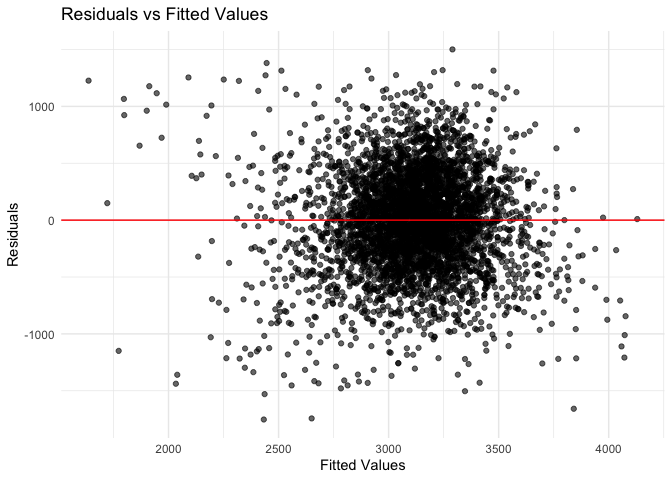
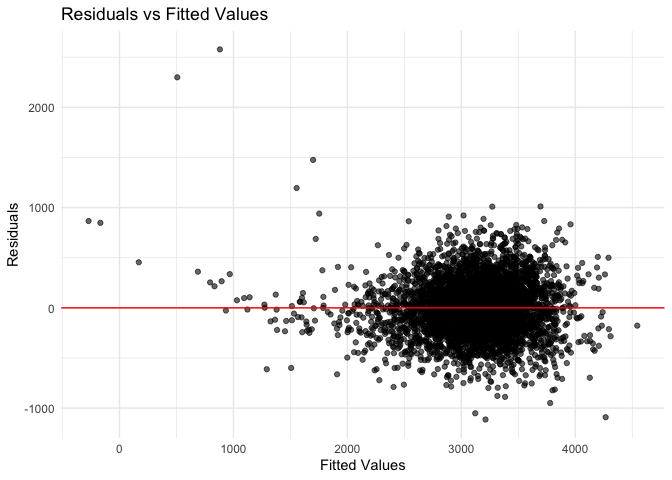
Comparing models using cross-validated prediction error

diff --git a/p8105_hw6_ys3924.md b/p8105_hw6_ys3924.md
@@ -96,7 +96,7 @@ birth_weight = read.csv("data/birthweight.csv") |>
 ```
 
 ``` r
-model = lm(bwt ~ smoken + ppbmi + ppwt + wtgain + gaweeks, data = birth_weight)
+model = lm(bwt ~ bhead + blength + ppbmi + ppwt + wtgain, data = birth_weight)
 birth_weight |>
   add_predictions(model, var = "predicted_model") |>
   add_residuals(model, var = "residuals_model") |>
@@ -109,10 +109,56 @@ birth_weight |>
 
 ![](p8105_hw6_ys3924_files/figure-gfm/unnamed-chunk-4-1.png)<!-- -->
 
-I would like to predict birth weight (bwt) based on a combination of
-maternal and pregnancy-related factors. The model uses hypothesized
-predictors informed by my prior knowledge in maternal health. I include
-smoken, ppbmi, ppwt, wtgain, gaweeks as predictors.
+I would like to predict birth weight (bwt) based on maternal and
+pregnancy-related factors. The model uses hypothesized predictors
+informed by my prior knowledge in maternal health. I include bhead,
+blength, ppbmi, ppwt, wtgain as predictors.
 
 The residuals are scattered around 0. There is no clear evidence of
 heteroscedasticity.
+
+``` r
+model2 = lm(bwt ~ blength + gaweeks, 
+            data = birth_weight)
+model3 = lm(bwt ~ bhead * blength * babysex, 
+            data = birth_weight)
+```
+
+``` r
+set.seed(1)
+cv_df = 
+  crossv_mc(birth_weight, 100) |>
+  mutate(
+    train = map(train, as_tibble),
+    test = map(test, as_tibble)) |>
+  mutate(
+    model = map(train, \(df) lm(bwt ~ bhead + blength + ppbmi + ppwt + wtgain, data = df)),
+    model2 = map(train, \(df) lm(bwt ~ blength + gaweeks, data = df)),
+    model3 = map(train, \(df) lm(bwt ~ bhead * blength * babysex, data = df))) |> 
+  mutate(
+    rmse = map2_dbl(model, test, \(mod, df) rmse(model = mod, data = df)),
+    rmse2 = map2_dbl(model2, test, \(mod, df) rmse(model = mod, data = df)),
+    rmse3 = map2_dbl(model3, test, \(mod, df) rmse(model = mod, data = df)))
+cv_df |> 
+  select(starts_with("rmse")) |> 
+  pivot_longer(
+    everything(),
+    names_to = "model", 
+    values_to = "rmse",
+    names_prefix = "rmse_") |> 
+  ggplot(aes(x = model, y = rmse)) + 
+  geom_violin() +
+  labs(
+    title = "rmse comparison of models",
+    x = "model",
+    y = "rmse"
+  )
+```
+
+![](p8105_hw6_ys3924_files/figure-gfm/unnamed-chunk-6-1.png)<!-- -->
+
+According to above violin plot, my model (rmse) shows the lowest median
+rmse, which suggests better predictive accuracy, while model 2 (rmse2)
+has the highest median, which indicates less consistent performance.
+Model 3 (rmse3) falls between the previous two models. Overall, my model
+appears to perform the best due to its lower rmse values.
